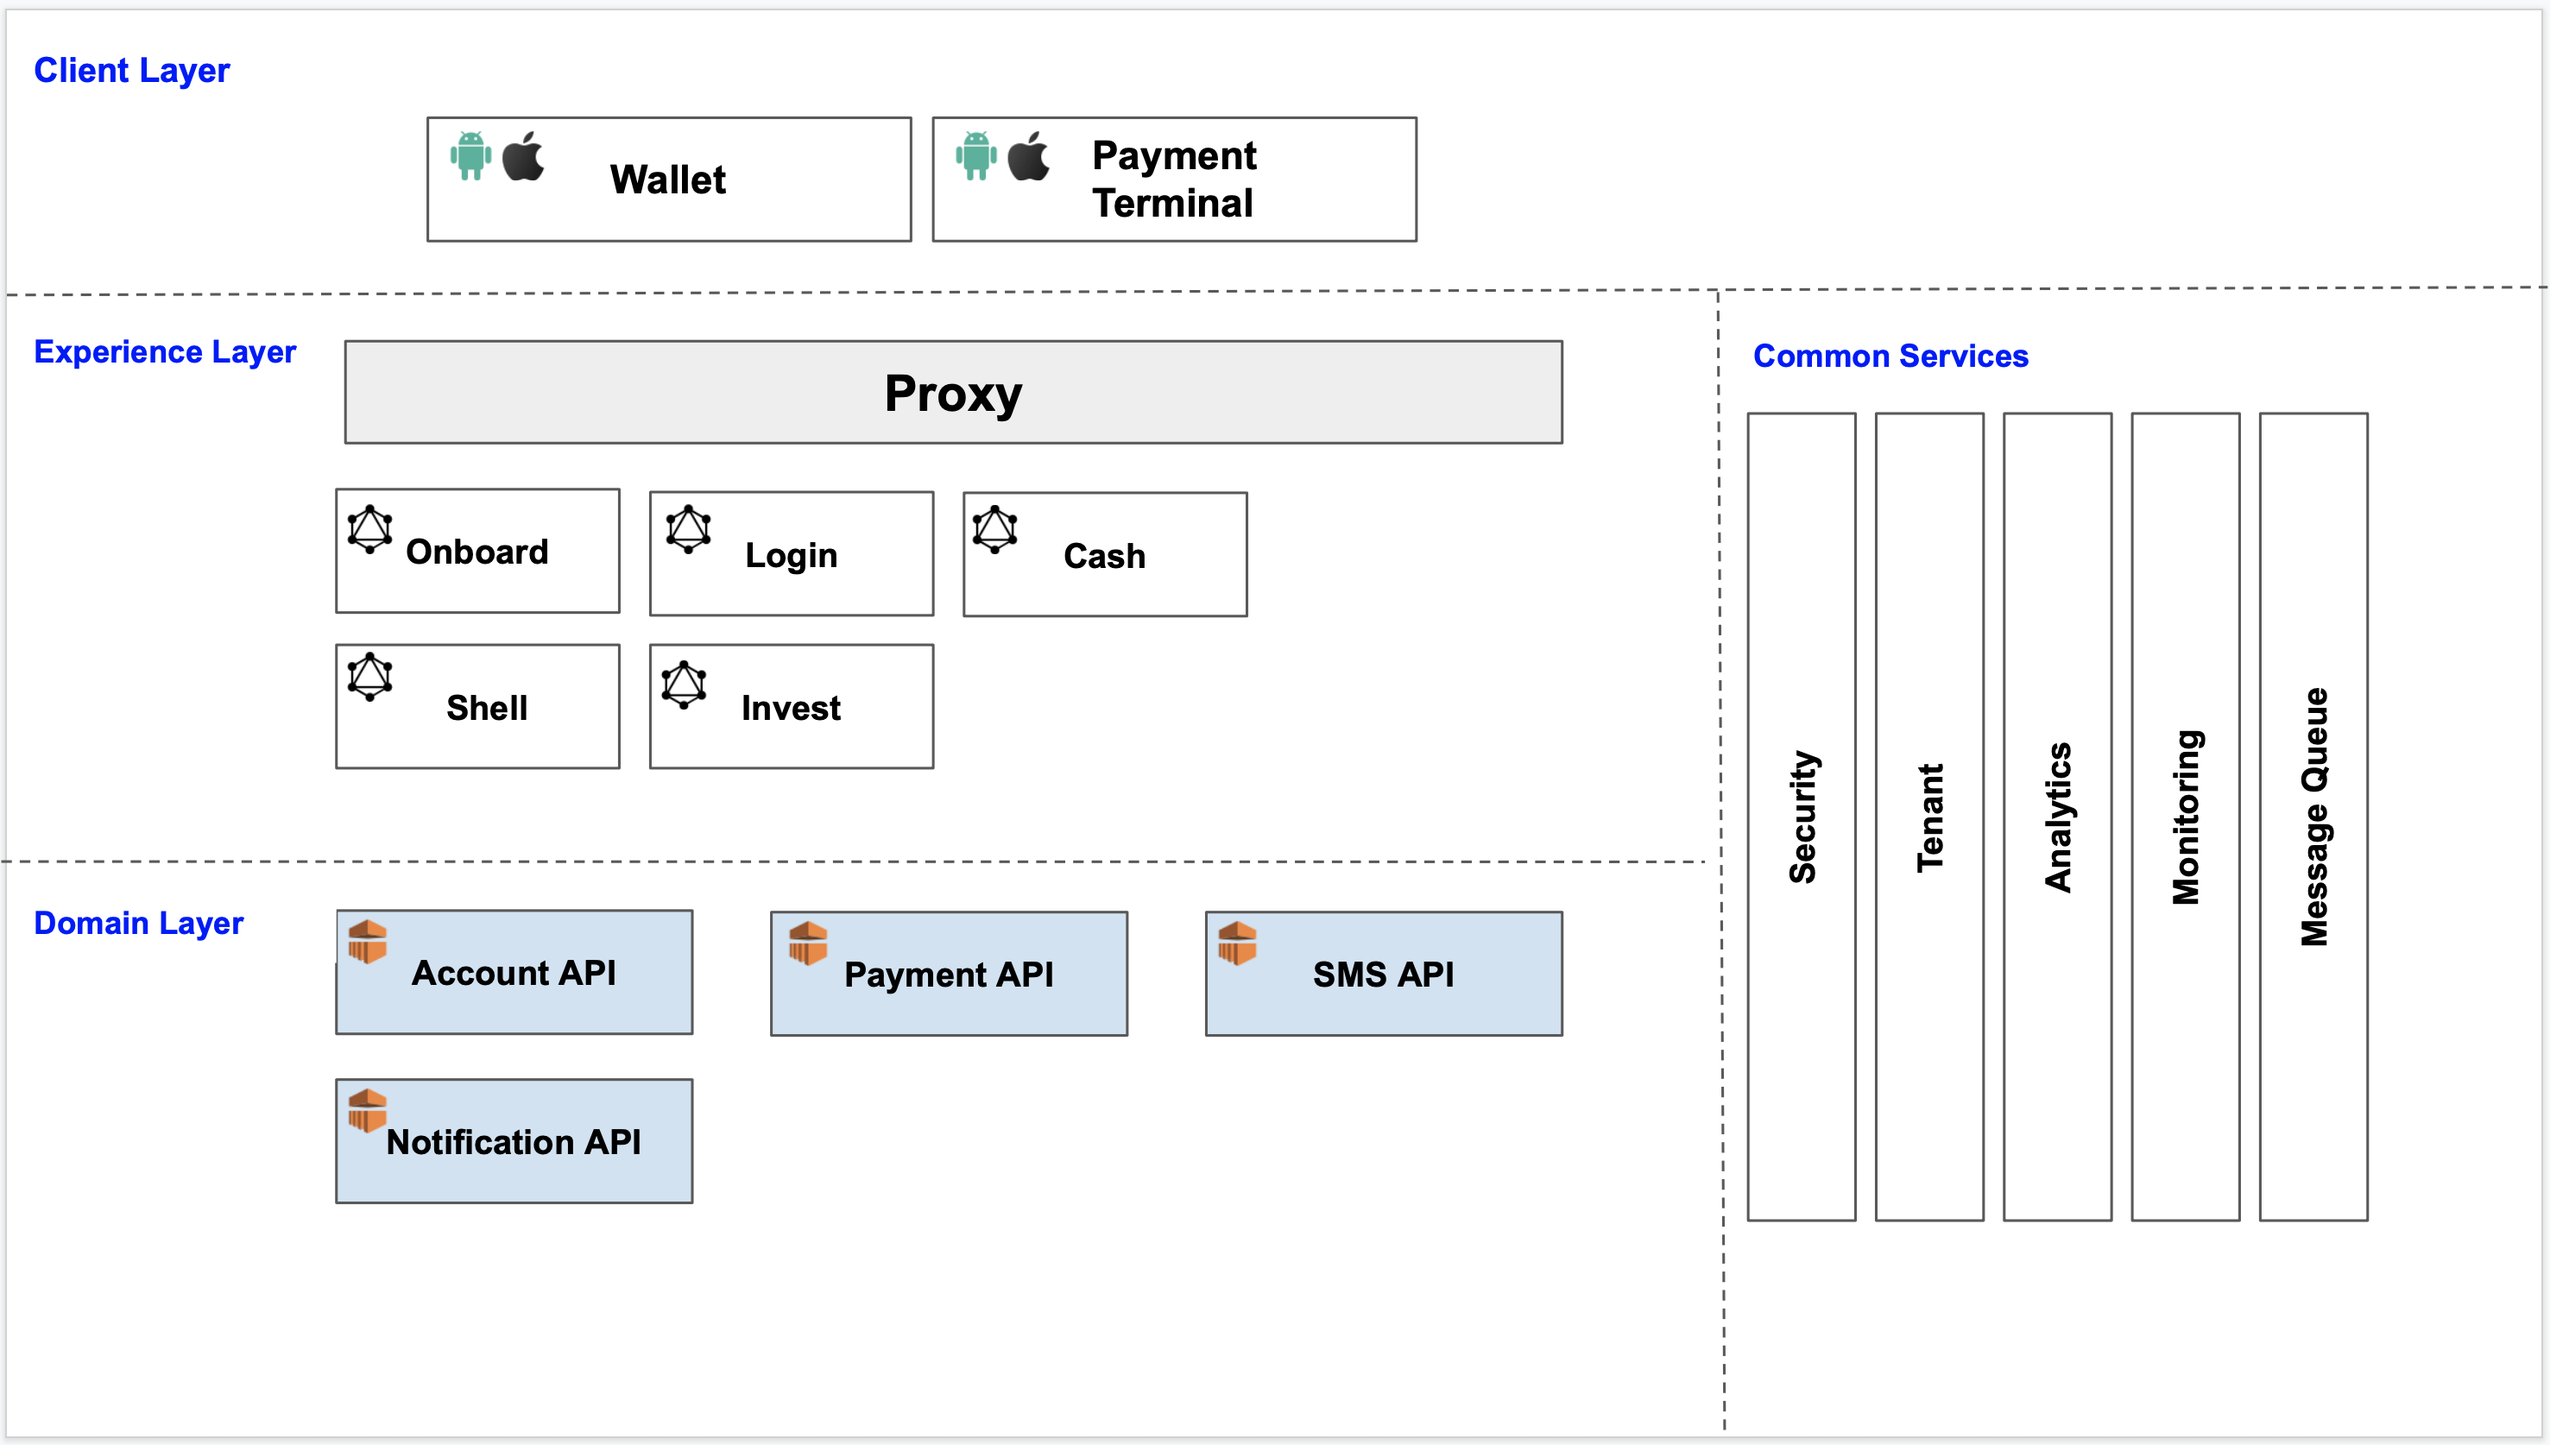
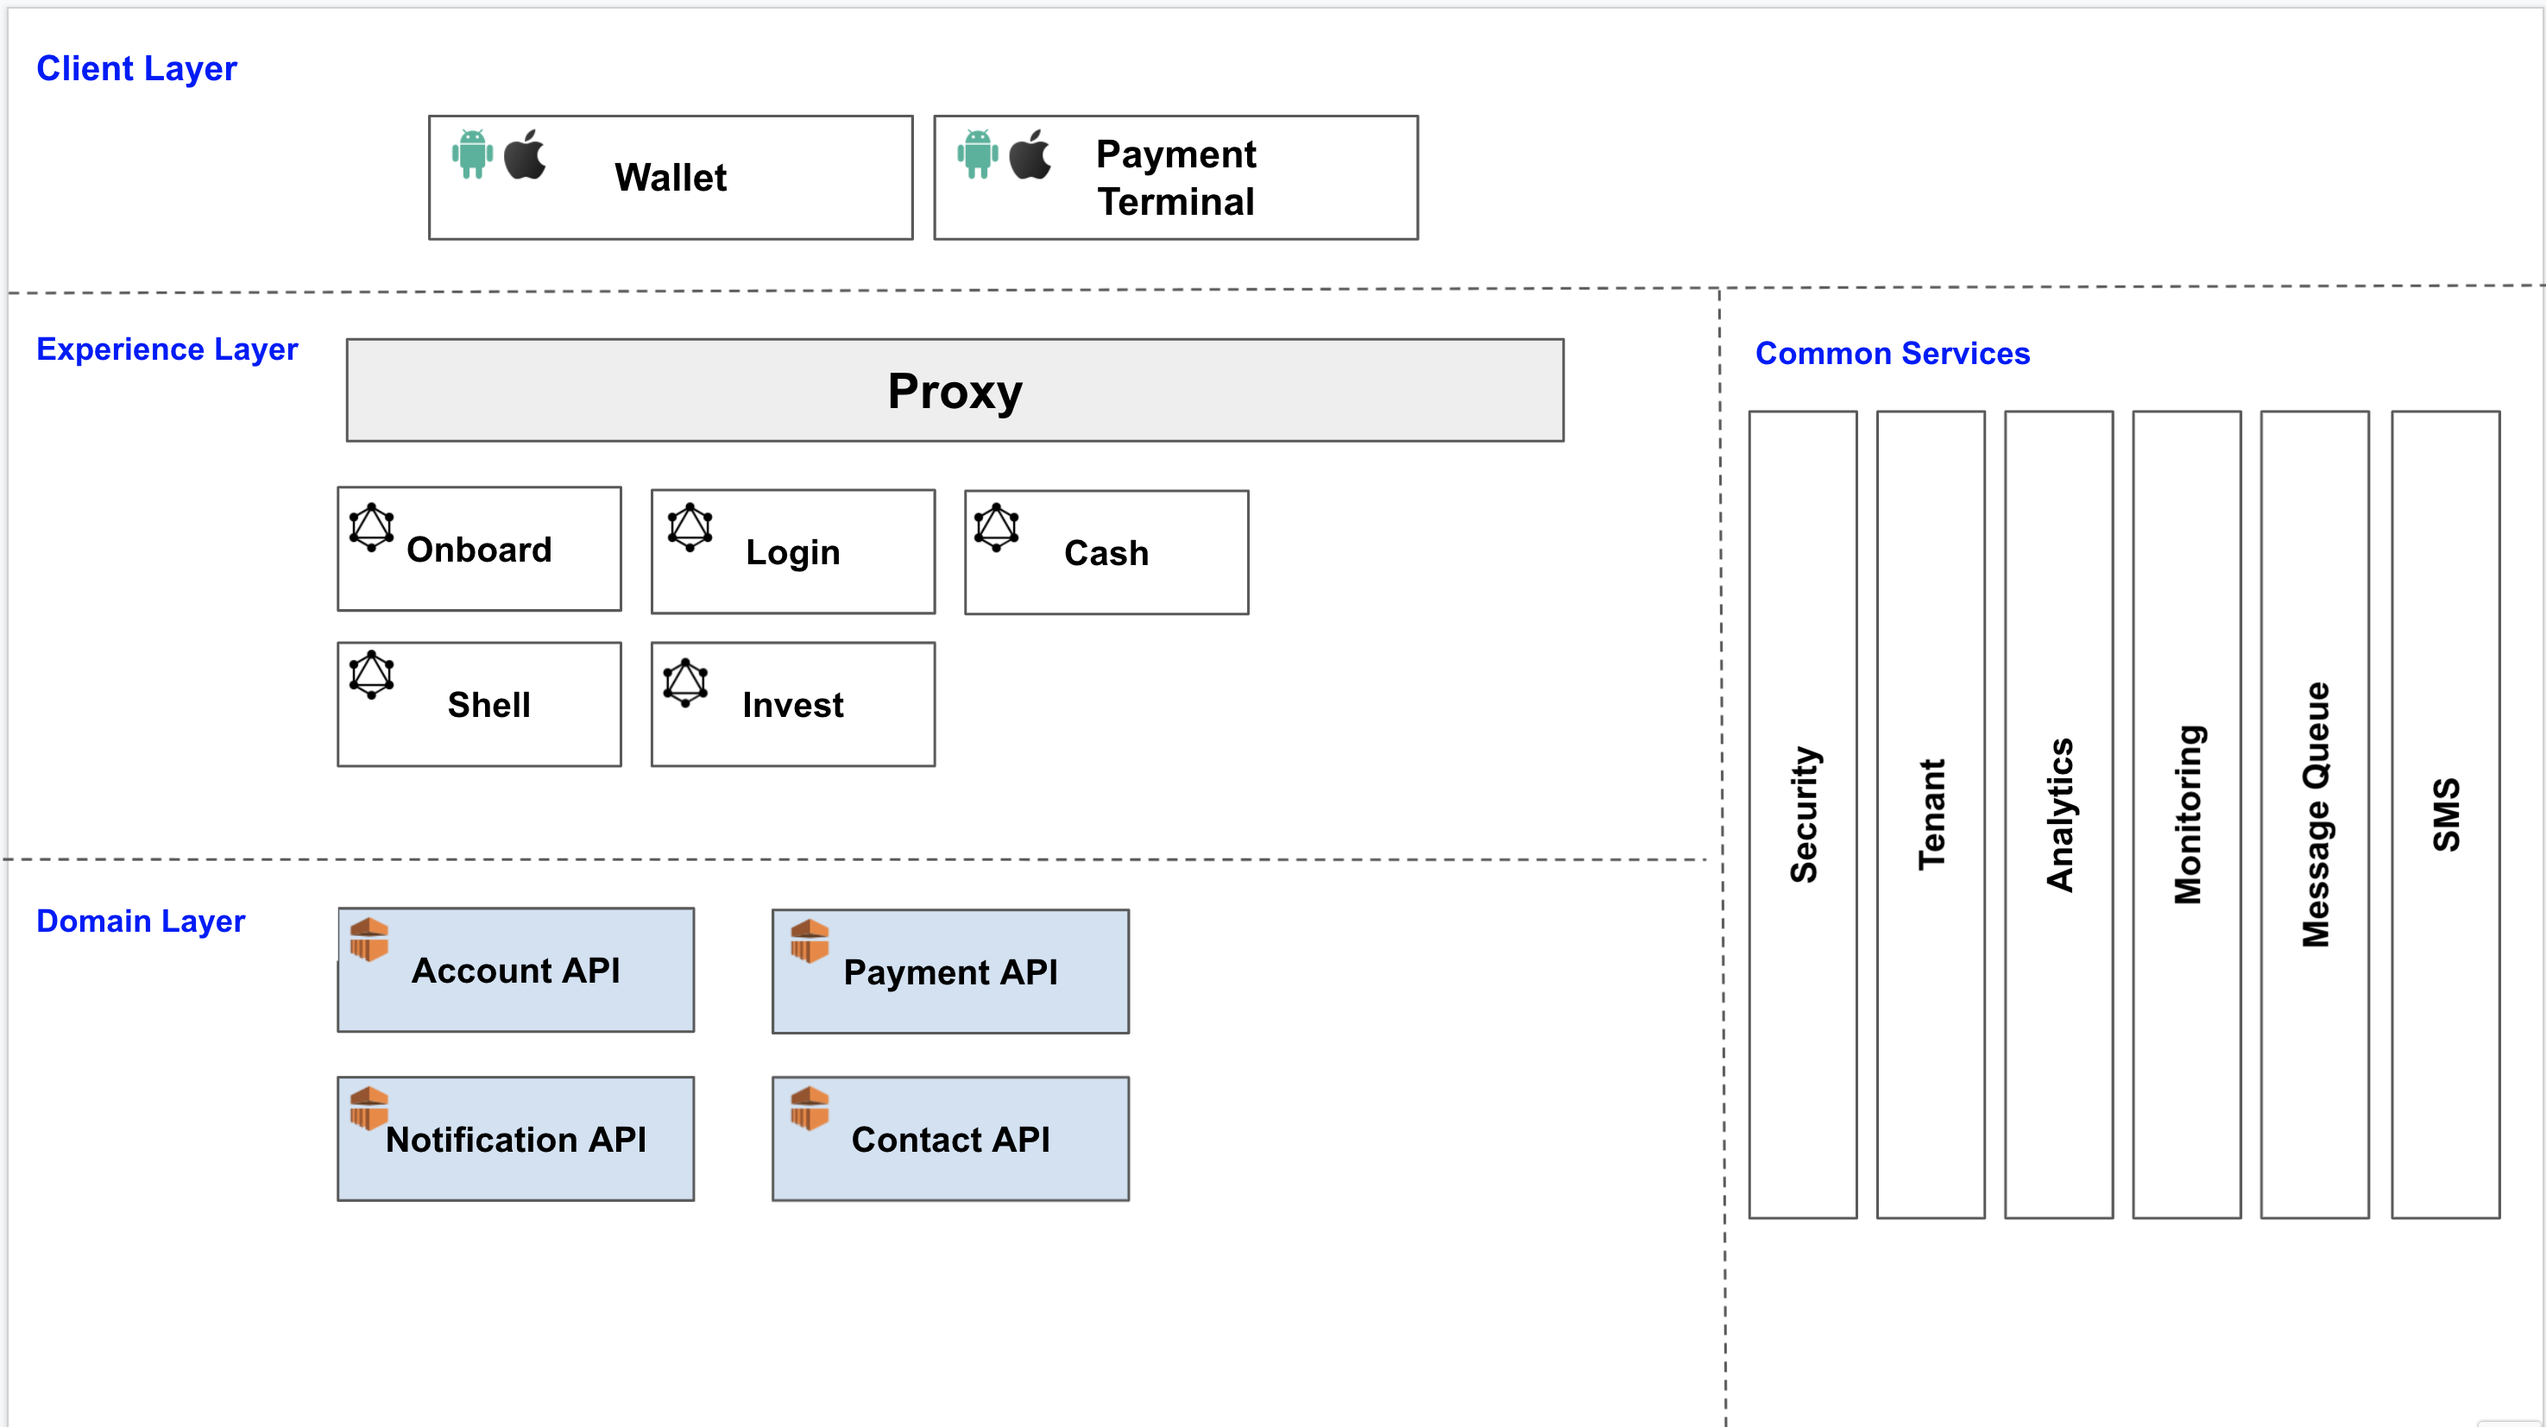
update

diff --git a/README.md b/README.md
@@ -13,12 +13,13 @@
 | **Domain Layer** |
 |[Account API](https://github.com/wutsi/wutsi-account-server)| ![](https://github.com/wutsi/wutsi-account-server/actions/workflows/master.yml/badge.svg) | ![](https://img.shields.io/github/v/tag/wutsi/wutsi-account-sdk-kotlin) | [API](https://wutsi.github.io/wutsi-account-server/api/) |
 |[Payment API](https://github.com/wutsi/wutsi-payment-server)| ![](https://github.com/wutsi/wutsi-payment-server/actions/workflows/master.yml/badge.svg) | ![](https://img.shields.io/github/v/tag/wutsi/wutsi-payment-sdk-kotlin) | [API](https://wutsi.github.io/wutsi-payment-server/api/) |
-|[SMS API](https://github.com/wutsi/wutsi-sms-server)| ![](https://github.com/wutsi/wutsi-sms-server/actions/workflows/master.yml/badge.svg) | ![](https://img.shields.io/github/v/tag/wutsi/wutsi-sms-sdk-kotlin) | [API](https://wutsi.github.io/wutsi-sms-server/api/) |
+|[Contact API](https://github.com/wutsi/wutsi-contact-server)| ![](https://github.com/wutsi/wutsi-contact-server/actions/workflows/master.yml/badge.svg) | ![](https://img.shields.io/github/v/tag/wutsi/wutsi-contact-sdk-kotlin) | [API](https://wutsi.github.io/wutsi-contact-server/api/) |
 |[Notification API](https://github.com/wutsi/wutsi-notification-server)| ![](https://github.com/wutsi/wutsi-notification-server/actions/workflows/master.yml/badge.svg) |  | Send notifications to users via SMS/Email or PushNotification |
 | **Common Services** |
 |[Tenant](https://github.com/wutsi/wutsi-tenant-server)| ![](https://github.com/wutsi/wutsi-tenant-server/actions/workflows/master.yml/badge.svg) | ![](https://img.shields.io/github/v/tag/wutsi/wutsi-tenant-sdk-kotlin) | [API](https://wutsi.github.io/wutsi-tenant-server/api/) - Supports for multi-tenancy |
 |[Security](https://github.com/wutsi/wutsi-security-server)| ![](https://github.com/wutsi/wutsi-security-server/actions/workflows/master.yml/badge.svg) | ![](https://img.shields.io/github/v/tag/wutsi/wutsi-security-sdk-kotlin) | [API](https://wutsi.github.io/wutsi-security-server/api/) - Manages authentication, authorization |
-| [Analytics](https://console.firebase.google.com) |  | | Collects all the platform signals using [Google Firebase](https://console.firebase.google.com/) (Analytics, Crashlytics) |
+|[SMS API](https://github.com/wutsi/wutsi-sms-server)| ![](https://github.com/wutsi/wutsi-sms-server/actions/workflows/master.yml/badge.svg) | ![](https://img.shields.io/github/v/tag/wutsi/wutsi-sms-sdk-kotlin) | [API](https://wutsi.github.io/wutsi-sms-server/api/) |
+|[Analytics](https://console.firebase.google.com) |  | | Collects all the platform signals using [Google Firebase](https://console.firebase.google.com/) (Analytics, Crashlytics) |
 | Monitoring |  | | Monitors the platform |
 | Message Queue |  | | RabbitMQ as message bus |
 | **Core Libraries** |
